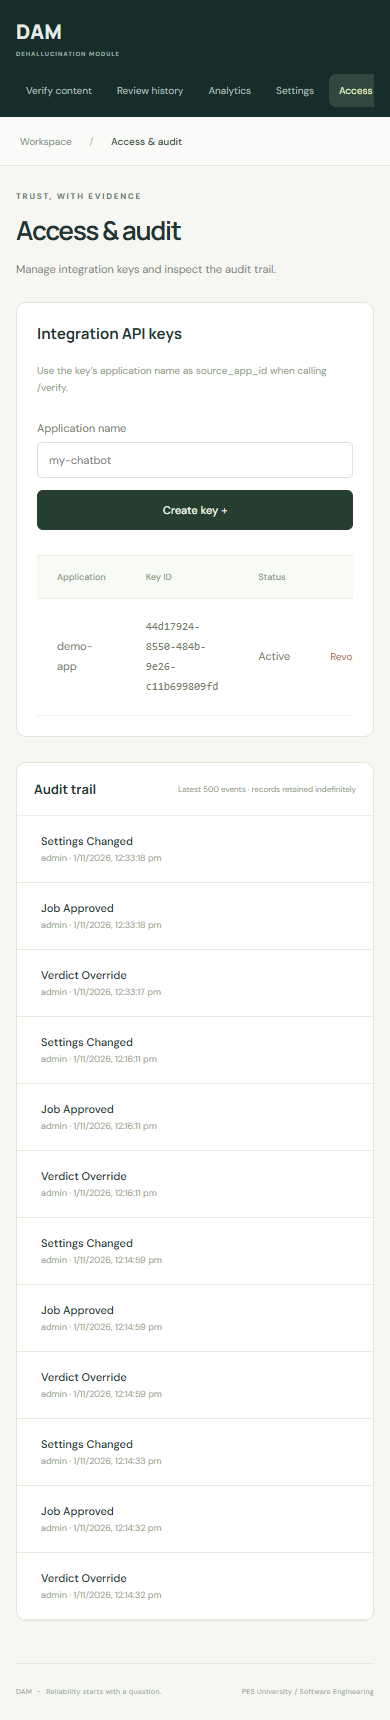
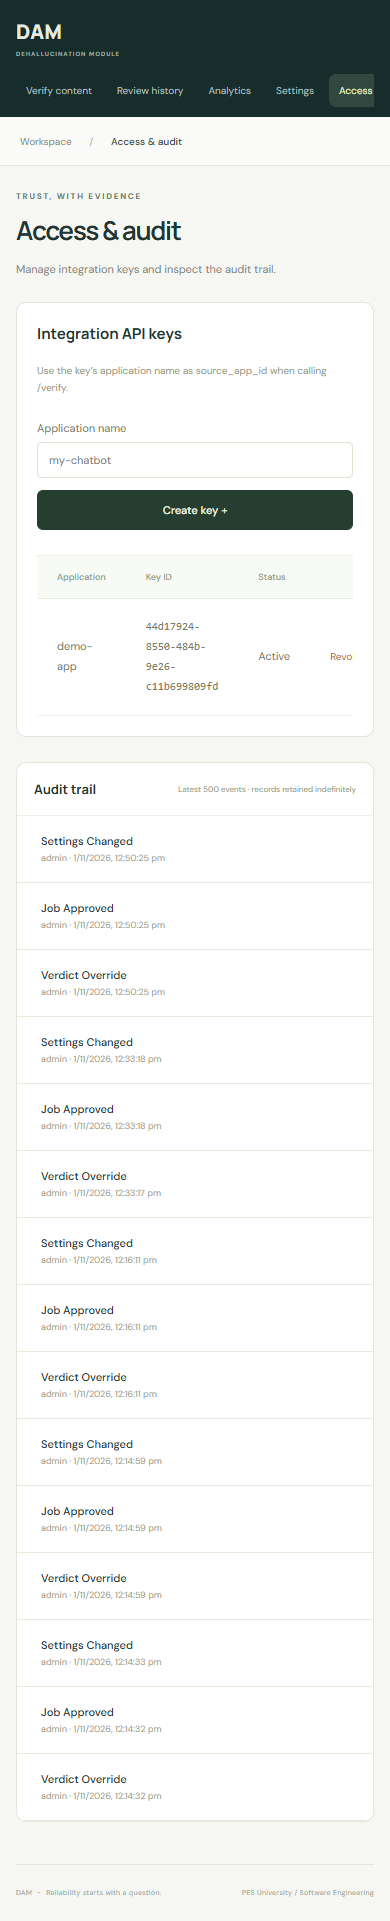
Cover verification input validation boundaries

diff --git a/frontend/tests/workspace.spec.js b/frontend/tests/workspace.spec.js
@@ -11,12 +11,21 @@ test('reviewer workspace verifies, overrides, audits and filters content', async
   await page.getByRole('button',{name:'Sign in →'}).click();
   await expect(page.getByRole('heading',{name:'A second look. A clearer answer.'})).toBeVisible();
   const content=page.getByLabel('AI-generated text');
+  const verifyButton=page.locator('button.primary').filter({hasText:'Verify content'});
+  await content.fill('   ');
+  await expect(verifyButton).toBeDisabled();
+  await expect(page.getByText('3 / 10,000')).toBeVisible();
   await content.fill('😀'.repeat(5001));
   await expect(page.getByText('5,001 / 10,000')).toBeVisible();
   expect(await content.evaluate(el=>Array.from(el.value).length)).toBe(5001);
-  await content.fill('😀'.repeat(10001));
+  const exactLimit='a'.repeat(9999)+'😀';
+  await content.fill(exactLimit);
   await expect(page.getByText('10,000 / 10,000')).toBeVisible();
   expect(await content.evaluate(el=>Array.from(el.value).length)).toBe(10000);
+  expect(await content.inputValue()).toBe(exactLimit);
+  await content.fill(exactLimit+'😀');
+  await expect(page.getByText('10,000 / 10,000')).toBeVisible();
+  expect(await content.inputValue()).toBe(exactLimit);
   await content.fill('');
   await page.getByRole('button',{name:'Try an example'}).click();
   await page.route('**/api/verify',route=>route.fulfill({status:503,contentType:'application/json',body:JSON.stringify({error:{message:'Verification is temporarily unavailable.'}})}));
